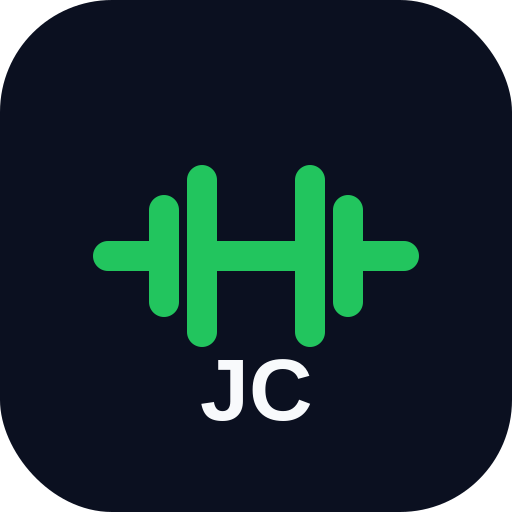
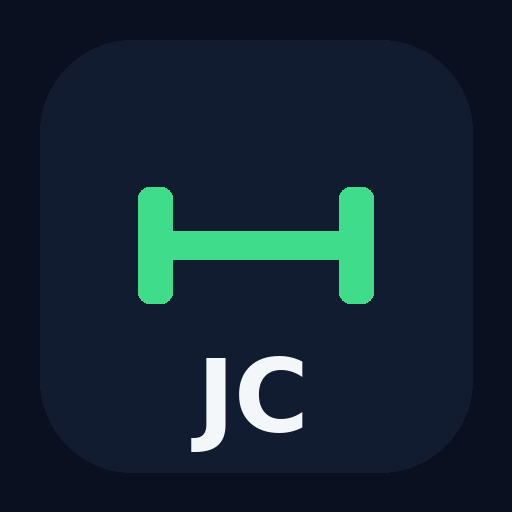
Add files via upload

diff --git a/sw.js b/sw.js
@@ -1,5 +1,34 @@
 const CACHE = 'jc-training-v7-2';
-const ASSETS = ['./','./index.html','./styles.css','./app.js','./v3.css','./v3.js','./v4.css','./v4.js','./v4_1.css','./v4_1.js','./v4_2.css','./v4_2.js','./v5.css','./v5.js','./v6.css','./v6.js','./v7.css','./v7_1.js','./v7_1.css','./v7.js','./manifest.json','./icon.svg','./icon-192.png','./icon-512.png'];
-self.addEventListener('install', e => { e.waitUntil(caches.open(CACHE).then(c => c.addAll(ASSETS))); self.skipWaiting(); });
-self.addEventListener('activate', e => e.waitUntil(caches.keys().then(keys=>Promise.all(keys.filter(k=>k!==CACHE).map(k=>caches.delete(k)))).then(()=>self.clients.claim())));
-self.addEventListener('fetch', e => { if (e.request.method !== 'GET') return; e.respondWith(fetch(e.request).then(r=>{ const copy=r.clone(); caches.open(CACHE).then(c=>c.put(e.request,copy)); return r; }).catch(()=>caches.match(e.request))); });
+const ASSETS = [
+  './','./index.html','./styles.css','./app.js',
+  './v3.css','./v3.js','./v4.css','./v4.js','./v4_1.css','./v4_1.js',
+  './v4_2.css','./v4_2.js','./v5.css','./v5.js','./v6.css','./v6.js',
+  './v7.css','./v7.js','./v7_1.css','./v7_1.js',
+  './manifest.json','./icon-192.png','./icon-512.png','./apple-touch-icon.png'
+];
+
+self.addEventListener('install', event => {
+  event.waitUntil(caches.open(CACHE).then(cache => cache.addAll(ASSETS)));
+  self.skipWaiting();
+});
+
+self.addEventListener('activate', event => {
+  event.waitUntil(
+    caches.keys()
+      .then(keys => Promise.all(keys.filter(key => key !== CACHE).map(key => caches.delete(key))))
+      .then(() => self.clients.claim())
+  );
+});
+
+self.addEventListener('fetch', event => {
+  if (event.request.method !== 'GET') return;
+  event.respondWith(
+    fetch(event.request)
+      .then(response => {
+        const copy = response.clone();
+        caches.open(CACHE).then(cache => cache.put(event.request, copy));
+        return response;
+      })
+      .catch(() => caches.match(event.request))
+  );
+});

diff --git a/index.html b/index.html
@@ -5,8 +5,14 @@
   <meta name="viewport" content="width=device-width, initial-scale=1.0, viewport-fit=cover" />
   <meta name="theme-color" content="#111827" />
   <meta name="description" content="JC Training: entrenamiento, nutrición y progreso personal." />
-  <link rel="manifest" href="manifest.json" />
-  <link rel="icon" href="icon.svg" type="image/svg+xml" />
+  <meta name="application-name" content="JC Training" />
+  <meta name="mobile-web-app-capable" content="yes" />
+  <meta name="apple-mobile-web-app-capable" content="yes" />
+  <meta name="apple-mobile-web-app-status-bar-style" content="black-translucent" />
+  <meta name="apple-mobile-web-app-title" content="JC Training" />
+  <link rel="manifest" href="/manifest.json" />
+  <link rel="icon" href="/icon-192.png" type="image/png" sizes="192x192" />
+  <link rel="apple-touch-icon" href="/apple-touch-icon.png" />
   <link rel="stylesheet" href="styles.css" />
   <link rel="stylesheet" href="v3.css" />
   <link rel="stylesheet" href="v4.css" />
